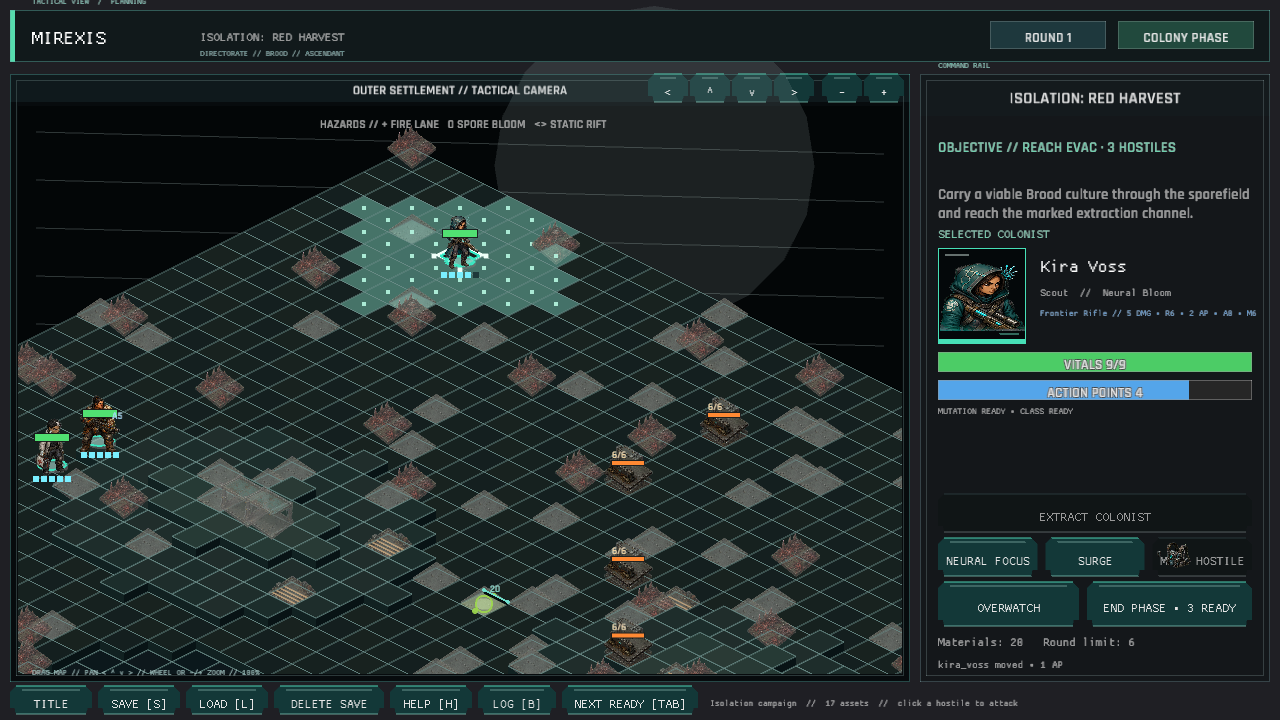
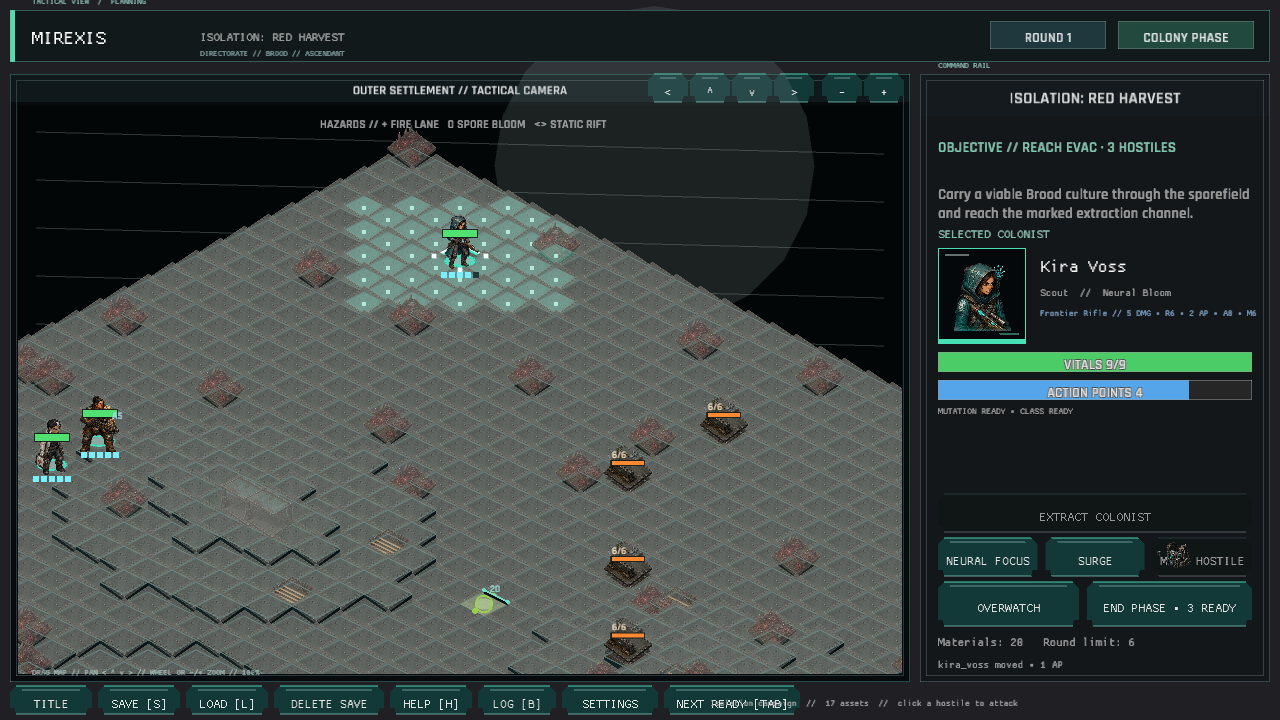
Every field effect names how long it will haunt the patrol (Phase 1 tactical status clarity and acceptance audit)
A requirement-by-requirement Phase 1 audit found that active tactical effects named their kind but omitted remaining duration. Show phase counts in the selected-colonist status rail and add a focused unit test so forecasts and live effect state remain inspectable instead of implicit.

Add a deterministic first-hour field-guide scene with representative persisted playtest metrics, replace the tactical captures affected by the status label, and expand the audited manifest to 86 unique 1280x720 images. Record every workstream and definition-of-done item in PHASE_1_ACCEPTANCE_MATRIX.md, separating verified implementation from the six observed-session gates that automation cannot satisfy.

Verified with 240 unit tests, asset-registry and Rust source-size gates, the capture audit, visual inspection of the new guide and status display, and the full parameterless Windows/WebGL publisher deployed to preview.

diff --git a/src/ui_widgets/tests.rs b/src/ui_widgets/tests.rs
@@ -1,0 +1,45 @@
+use super::*;
+use crate::data::{Team, UnitDef};
+use crate::state::StatusKind;
+use crate::tactical::StatusEffect;
+use macroquad_toolkit::grid::TilePos;
+
+#[test]
+fn active_statuses_name_their_remaining_phase_duration() {
+    let definition = UnitDef {
+        id: "status_test".to_owned(),
+        name: "Status Test".to_owned(),
+        role: "Scout".to_owned(),
+        class_id: "soldier".to_owned(),
+        equipment_ids: Vec::new(),
+        mutation: "None".to_owned(),
+        team: Team::Colony,
+        faction: None,
+        position: [0, 0],
+        max_health: 10,
+        move_range: 5,
+        armour: 1,
+        accuracy: 70,
+        weapon_range: 5,
+        weapon_damage: 3,
+        weapon_ap_cost: 1,
+        round_regeneration: 0,
+    };
+    let mut unit = UnitState::from_def(&definition, 2);
+    unit.position = TilePos::new(0, 0);
+    unit.statuses = vec![
+        StatusEffect {
+            kind: StatusKind::Focused,
+            remaining_phases: 1,
+        },
+        StatusEffect {
+            kind: StatusKind::Guarded,
+            remaining_phases: 2,
+        },
+    ];
+
+    assert_eq!(
+        action_status(&unit),
+        "FOCUSED 1 PH / GUARDED 2 PH · CLASS READY"
+    );
+}

diff --git a/src/game/capture_scenes.rs b/src/game/capture_scenes.rs
@@ -79,6 +79,20 @@ impl Game {
                 self.reset_capture_session(AppState::Tactical);
                 self.show_tactical_help = true;
             }
+            "first_hour_guide" => {
+                self.state = AppState::Colony;
+                self.campaign.first_hour.stage = crate::first_hour::FirstHourStage::SecondOperation;
+                self.campaign.first_hour.help_open = true;
+                let metrics = &mut self.campaign.first_hour.metrics;
+                metrics.elapsed_millis = 2_846_000;
+                metrics.first_city_move_millis = Some(18_000);
+                metrics.first_city_interaction_millis = Some(46_000);
+                metrics.first_tactical_attack_millis = Some(612_000);
+                metrics.operation_one_duration_millis = Some(934_000);
+                metrics.operation_one_rounds = Some(5);
+                metrics.invalid_commands = 3;
+                metrics.guide_opens = 2;
+            }
             "battle_log" => {
                 self.reset_capture_session(AppState::Tactical);
                 self.session.end_player_phase(&self.data.config);

diff --git a/src/ui_widgets.rs b/src/ui_widgets.rs
@@ -82,9 +82,11 @@ pub(crate) fn action_status(unit: &UnitState) -> String {
         let statuses = unit
             .statuses
             .iter()
-            .map(|status| format!("{:?}", status.kind).to_uppercase())
+            .map(|status| {
+                format!("{:?} {} PH", status.kind, status.remaining_phases).to_uppercase()
+            })
             .collect::<Vec<_>>()
-            .join("/");
+            .join(" / ");
         format!("{} · {}", statuses, class)
     }
 }
@@ -158,3 +160,6 @@ pub(crate) fn button_with_state(
     );
     hovered && is_mouse_button_released(MouseButton::Left)
 }
+
+#[cfg(test)]
+mod tests;

diff --git a/src/game/capture_scenes/tests.rs b/src/game/capture_scenes/tests.rs
@@ -13,7 +13,7 @@ fn capture_manifest() -> Vec<&'static str> {
 fn capture_script_manifest_is_unique_and_every_scene_has_an_explicit_builder() {
     let source = include_str!("../capture_scenes.rs");
     let scenes = capture_manifest();
-    assert_eq!(scenes.len(), 85, "update the audited capture inventory");
+    assert_eq!(scenes.len(), 86, "update the audited capture inventory");
     assert_eq!(
         scenes.iter().copied().collect::<BTreeSet<_>>().len(),
         scenes.len(),

diff --git a/docs/PHASE_1_ACCEPTANCE_MATRIX.md b/docs/PHASE_1_ACCEPTANCE_MATRIX.md
@@ -1,0 +1,152 @@
+# Phase 1 Acceptance Matrix
+
+Status: implementation evidence audited; observed-session gates pending
+Audit baseline: save/content 1.65.0, validated and committed with this matrix
+
+This matrix maps every Phase 1 workstream and definition-of-done requirement to
+authoritative evidence. `VERIFIED` means code, tests, captures, or an operator-run path
+proves the implementation requirement. `HUMAN PENDING` means the requirement asks what
+an unfamiliar player understands, recalls, prefers, or can complete; automation and the
+developer are not substitutes for that evidence.
+
+## Definition of done
+
+| ID | Requirement | Evidence | Status |
+|---|---|---|---|
+| D01 | Golden path reaches the second-operation promise beat | `FirstHourStage`, `first_hour/tests.rs`, `ui_briefing.png`, `ui_debrief.png`, and `ui_colony.png` | VERIFIED |
+| D02 | Five first-time players complete without external instructions | Five empty required rows in `PHASE_1_PLAYTEST_LOG.md` | HUMAN PENDING |
+| D03 | At least two end-to-end runs use visible touch/click controls only | Touch-primary rows 2 and 4 await observed runs | HUMAN PENDING |
+| D04 | Operation one teaches the core loop and operation two demonstrates transfer | Ordered `TacticalLesson` transitions and unscripted `SecondOperation`; player transfer must still be observed | IMPLEMENTED / HUMAN PENDING |
+| D05 | City supplies direction, preparation, character connection, and visible consequences | `first_hour_ui.rs`, `first_hour_investment_ui.rs`, colony conversations, `first_hour_consequences_ui.rs`, and colony/debrief captures | VERIFIED |
+| D06 | First investment has a clear observable effect | Three 24-material preparations and `first_investment_changes_only_the_second_deployment` | VERIFIED |
+| D07 | Victory, defeat, save, continue, refresh, and resize paths are verified | `PHASE_1_HARDENING.md`, persistence/outcome tests, and the recorded WebGL operator pass | VERIFIED |
+| D08 | Audio/settings exist and critical information remains visual | `audio.rs`, audio tests, settings UI, event prose/markers, and browser persistence pass; fatigue remains an observation target | VERIFIED / HUMAN PENDING |
+| D09 | No severity 1 or 2 first-hour issue remains | No implementation-known severity 1/2 issue; five-session issue discovery and triage have not occurred | HUMAN PENDING |
+| D10 | Documentation and verification captures match the build | 86-scene manifest, acceptance matrix test, `capture_audit.json`, and `ui_first_hour_guide.png` | VERIFIED |
+| D11 | Parameterless publisher passes and changes use project commit conventions | Recorded in `PHASE_1_HARDENING.md`; rerun and commit required after each audit fix | VERIFIED AT LAST CHECKPOINT |
+
+## Workstream audit
+
+### 5.1 First-session direction and onboarding
+
+| Required work | Evidence | Status |
+|---|---|---|
+| Opening situation, immediate goal, and destination | Arrival goal and Mara marker/landmark | VERIFIED |
+| Introduce only the next meaningful control | Stage-owned `primary_goal` and ordered tactical lesson | VERIFIED |
+| Exact visible-control or gesture language | Prompts consistently name Tap, Drag, CONTINUE, OPERATIONS, DEPLOY, ATTACK, END PHASE, HELP, and visible targets | VERIFIED |
+| Highlight relevant target without blocking inspection | Non-blocking goal banner, Mara marker, operation control, and tactical overlays | VERIFIED |
+| Visible revisitable help | FIRST-HOUR FIELD GUIDE and tactical HELP | VERIFIED |
+| Restartable and skippable prompts without removing goals | `restart`, `guidance_enabled`, and first-hour tests | VERIFIED |
+| Persist progress and migrate saves with no tutorial fields | Save schema 1.65 and migration fixtures for 1.63 and 1.64 | VERIFIED |
+| Defer non-actionable panels | Deferred-system list and first-hour gating in colony controls | VERIFIED |
+
+Acceptance that an unfamiliar player completes without help or keyboard and resumes with
+the right understood context remains part of H01–H04 below.
+
+### 5.2 City as home and preparation space
+
+| Required work | Evidence | Status |
+|---|---|---|
+| Strong first-NPC landmark, readable approach, short interaction | Mara landmark, approach path, interaction distance, and exact city goal | VERIFIED |
+| Concise introductions for coordinator and starting squad | Authored speaker table and colony dialogue | VERIFIED |
+| Environmental and HUD primary goal | Goal banner plus highlighted world/control targets | VERIFIED |
+| Readable colonists and facilities without permanent labels | Speech markers, proximity dialogue, building art/state | VERIFIED |
+| Outcome-sensitive post-operation conversation | Ilya debrief line and first-return conversation state | VERIFIED |
+| Physical/visual consequence after each operation | Refuge and outer-route consequence drawing | VERIFIED |
+| Travel supports atmosphere without delay | Direct tap-to-walk, short Mara route, visible OPERATIONS shortcut | IMPLEMENTED / HUMAN PENDING |
+| Timely choices foregrounded | Three dedicated preparations; advanced systems deferred | VERIFIED |
+
+Ten-second goal recognition, city attachment, and traversal friction require observation.
+
+### 5.3 Tactical flow and combat feel
+
+| Required work | Evidence | Status |
+|---|---|---|
+| Authored teaching operation | `operation_glassroot` and first-operation stage | VERIFIED |
+| Core-rule order | `TacticalLesson`: select, cover move, attack, enemy phase, objective, ability | VERIFIED |
+| Less-scripted second operation | Generated Isolation offer with `ApplyLearning` guidance only | VERIFIED |
+| Reduce low-value clicks | Direct tile/hostile intents, target forecast, visible actions, guarded end phase | VERIFIED |
+| Camera, focus, targeting, end phase, and replay review | Camera/input tests and tactical capture set | VERIFIED |
+| Distinct visual/audio results | Event feedback, procedural palette, battle log, and tactical captures | VERIFIED |
+| Active effects and duration explicit | Status rail now displays each remaining phase count; dedicated unit test | VERIFIED |
+| Forecast agrees with deterministic resolution | Action-preview and deterministic attack tests | VERIFIED |
+| Duration and inactive-wait targets measured | Persisted operation duration/round metrics are ready; three internal and five external samples absent | HUMAN PENDING |
+
+Player explanations of attacks, objective recognition, hostile pacing, and touch completion
+remain observed-session requirements.
+
+### 5.4 Progression, economy, and consequences
+
+| Required work | Evidence | Status |
+|---|---|---|
+| Starting resources, rewards, recovery, and valid investments defined | `PHASE_1_BEAT_SHEET.md` and embedded data | VERIFIED |
+| Investment changes operation two | Armour, accuracy, or movement bonus plus unit test | VERIFIED |
+| Unavailable choices explain prerequisites | Warning text and lock reasons across first-hour surfaces | VERIFIED |
+| Defeat/injury cannot deadlock economy | Emergency 24-material reserve and recovery tests | VERIFIED |
+| XP, injury, relationships, equipment, and resources visible then inspectable | Debrief plus roster/loadout/colony surfaces | VERIFIED |
+| Advanced systems hidden until promise | Deferred list and stage-aware controls | VERIFIED |
+
+Recall of gains, spending, and benefit—and perceived balance among the choices—requires
+the observed sessions.
+
+### 5.5 Character and narrative pass
+
+| Required work | Evidence | Status |
+|---|---|---|
+| Role, want, tension, and voice for each speaker | Authored-speaker table in `PHASE_1_BEAT_SHEET.md` | VERIFIED |
+| Brief action-responsive first conversations | Mara arrival and outcome-aware return dialogue | VERIFIED |
+| Initial relationship contrast | Mara readiness versus Ilya recovery | VERIFIED |
+| Named briefing/debrief voices | Mara briefing and Ilya debrief copy | VERIFIED |
+| Continuity flags | First/second outcome and investment fields in `FirstHourProgress` | VERIFIED |
+| First-hour text clarity and mobile length | Touch-language audit and canonical captures | VERIFIED / HUMAN PENDING |
+
+Name recall, differentiation, and repetition are human comprehension gates.
+
+### 5.6 Audio and presentation foundation
+
+| Required work | Evidence | Status |
+|---|---|---|
+| Persistent volume and mute before cue reliance | Independent `audio_preferences` slot and settings controls | VERIFIED |
+| Required response palette | `SoundCue` variants and palette coverage test | VERIFIED |
+| Restrained city/tactical ambience and transitions | `AudioScene`, low ambience multiplier, and scene synchronization | VERIFIED |
+| Attribution/source record | `AUDIO_SOURCES.md` documents generated sources and future policy | VERIFIED |
+| Missing audio reports clearly without blocking play | `load_failures` notification path; critical presentation is not audio-owned | VERIFIED |
+| Timing, transitions, and text cadence audited with sound | Reduced-motion/replay handling and one-cue-per-update policy | IMPLEMENTED / HUMAN PENDING |
+
+Clipping, stacking, fatigue, and muted comprehension require listening sessions.
+
+### 5.7 Reliability, accessibility, and recovery
+
+| Required work | Evidence | Status |
+|---|---|---|
+| New game, autosave, tactical save, continue, defeat, restart, refresh | Hardening matrix and persistence/outcome tests | VERIFIED |
+| Destructive confirmation/recovery | Two-step new-colony and delete-save guards | VERIFIED |
+| Desktop sizes and touch routes | 1024×768, 1280×720, and 1440×900 browser audit; visible controls | VERIFIED / HUMAN PENDING |
+| Text, contrast, colour redundancy, and motion/readability | Graphics acceptance matrix and reduced-motion setting | VERIFIED / HUMAN PENDING |
+| Overlay/focus/resize input safety | Modal input clearing and map-release tests | VERIFIED |
+| Explicit save migrations | Schema table and immediate-previous-version fixture | VERIFIED |
+| Canonical captures replaced rather than duplicated | Flat 86-scene capture inventory and audit | VERIFIED |
+
+## Delivery-checkpoint audit
+
+| Checkpoint | Implemented evidence | Remaining gate |
+|---|---|---|
+| A — Lock experience | Beat sheet, two-operation path, deferrals, playtest ledger | Three complete internal timing runs and their friction list |
+| B — Playable opening | Campaign-owned arrival through briefing, migration, touch-visible controls | Human touch-only completion evidence |
+| C — First operation and return | Teaching operation, feedback/audio, debrief, consequences, recovery | Observed arrival-to-return comprehension and pacing |
+| D — Choice and second operation | Three investments, tactical effect, second consequence, promise | Observed choice comprehension and transfer |
+| E — Hardening | Settings, recovery, resize, save/refresh, captures, publisher | Five uncoached sessions, two touch-primary; fix resulting severity 1/2 issues |
+
+## Remaining observed-session gates
+
+| ID | Required evidence | Completion condition |
+|---|---|---|
+| H01 | Internal timing baseline | Three complete internal runs recorded with total and operation timings, rounds, friction, and issue triage |
+| H02 | External first-time sample | Five complete uncoached first-time sessions after Checkpoint D |
+| H03 | Touch-primary coverage | At least two of H02 complete end to end through visible touch/click controls |
+| H04 | Comprehension and recall | Session notes cover goals, attack results, objective, rewards, spending, benefit, and at least two characters |
+| H05 | Subjective pacing/presentation | Notes cover travel, hostile idle time, text cadence, audio fatigue/overlap, motion, and favourite/friction moments |
+| H06 | Issue closure | Every observed severity 1/2 issue is fixed and reverified or explicitly accepted; recurring lower-severity causes are triaged |
+
+The game records the quantitative portion in the FIRST-HOUR FIELD GUIDE. A human observer
+must supply the exact input method and qualitative evidence in `PHASE_1_PLAYTEST_LOG.md`.

diff --git a/docs/verification/FINAL_CAPTURE_INVENTORY.md b/docs/verification/FINAL_CAPTURE_INVENTORY.md
@@ -1,12 +1,12 @@
 # Mirexis Final Capture Inventory
 
-Generated: 2026-08-12  
-Capture root: `docs/verification`  
+Generated: 2026-08-29
+Capture root: `docs/verification`
 Manifest: `scripts/capture_ui.ps1`
 
 ## Integrity summary
 
-- 85 manifest scenes and 85 canonical root PNG files; no scene is stored in a capture subfolder.
+- 86 manifest scenes and 86 canonical root PNG files; no scene is stored in a capture subfolder.
 - Every capture uses the standard 1280 x 720 logical target.
 - The harness overwrites each canonical `ui_<scene>.png` file in place.
 - Tactical inspection covers default gameplay, movement routes, class targeting, valid shots, hazards, and the off-center zoom variant.
@@ -27,10 +27,10 @@ Manifest: `scripts/capture_ui.ps1`
 
 | # | Scene | File | Bytes | SHA-256 |
 |---:|---|---|---:|---|
[9 lines of base64/hex data omitted]
@@ -65,7 +65,7 @@ Manifest: `scripts/capture_ui.ps1`
[8 lines of base64/hex data omitted]
@@ -73,16 +73,16 @@ Manifest: `scripts/capture_ui.ps1`
[20 lines of base64/hex data omitted]
@@ -92,23 +92,24 @@ Manifest: `scripts/capture_ui.ps1`
[44 lines of base64/hex data omitted]

diff --git a/README.md b/README.md
@@ -42,6 +42,7 @@ and [docs/PHASE_1_PLAYTEST_LOG.md](docs/PHASE_1_PLAYTEST_LOG.md).
 | [docs/PHASE_1_BEAT_SHEET.md](docs/PHASE_1_BEAT_SHEET.md) | Authored first-hour sequence, economy, speakers, and deferred systems |
 | [docs/PHASE_1_HARDENING.md](docs/PHASE_1_HARDENING.md) | Automated reliability, accessibility, resize, and recovery evidence |
 | [docs/PHASE_1_PLAYTEST_LOG.md](docs/PHASE_1_PLAYTEST_LOG.md) | Required human session evidence and issue triage |
+| [docs/PHASE_1_ACCEPTANCE_MATRIX.md](docs/PHASE_1_ACCEPTANCE_MATRIX.md) | Requirement-by-requirement implementation evidence and remaining human gates |
 | [docs/AUDIO_SOURCES.md](docs/AUDIO_SOURCES.md) | Audio palette provenance and future attribution requirements |
 | [docs/UI_GRAPHICS_VISUAL_SPEC.md](docs/UI_GRAPHICS_VISUAL_SPEC.md) | Visual language and UI acceptance principles |
 | [art_sources/README.md](art_sources/README.md) | Source-art and atlas preparation notes |

diff --git a/docs/verification/UI_GRAPHICS_ACCEPTANCE_MATRIX.md b/docs/verification/UI_GRAPHICS_ACCEPTANCE_MATRIX.md
@@ -127,6 +127,7 @@ Each row must have a post-overhaul PNG in the final capture directory and pass t
 | threat_range | Tactical/overlay | Rectangular threat overlay | `ui_threat_range.png` | PASS |
 | danger_reach | Tactical/overlay | Rectangular danger overlay | `ui_danger_reach.png` | PASS |
 | help | Help | Dense small-text modal | `ui_help.png` | PASS |
+| first_hour_guide | First-hour guide and playtest metrics | No canonical evidence for the observer-facing session readout | `ui_first_hour_guide.png` | PASS |
 | battle_log | Battle log | Plain chronological text | `ui_battle_log.png` | PASS |
 | combat_feedback | Tactical/feedback | Minimal impact/recoil/critical treatment | `ui_combat_feedback.png` | PASS |
 | phase_replay | Tactical/replay | Weak replay staging | `ui_phase_replay.png` | PASS |

diff --git a/docs/PHASE_1_HARDENING.md b/docs/PHASE_1_HARDENING.md
@@ -31,10 +31,11 @@ Status: automated and internal verification complete; external playtests pending
 
 ## Automated verification baseline
 
-- 239 Mirexis unit tests pass.
+- 240 Mirexis unit tests pass.
 - External asset-registry and Rust source-size gates pass.
 - `publish.ps1` passes without parameters for Windows and WebGL and deploys to preview.
-- Canonical title and colony captures were refreshed after the new controls.
+- The canonical set contains 86 audited 1280×720 scenes, including the first-hour
+  field guide; status-effect and first-hour layout changes replace their affected images.
 
 ## Honest boundary
 

diff --git a/docs/PLAYABLE_GAME_PHASE_1.md b/docs/PLAYABLE_GAME_PHASE_1.md
@@ -335,7 +335,8 @@ of market fit.
 
 Session evidence and unresolved findings are recorded in `PHASE_1_PLAYTEST_LOG.md`.
 Automated reliability, accessibility, resize, and recovery evidence is recorded in
-`PHASE_1_HARDENING.md`.
+`PHASE_1_HARDENING.md`. The requirement-by-requirement implementation and acceptance
+audit is recorded in `PHASE_1_ACCEPTANCE_MATRIX.md`.
 
 ## 8. Definition of done
 
